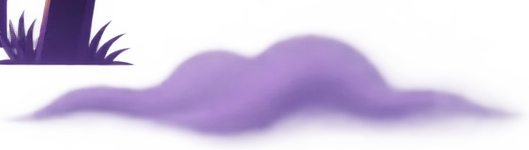
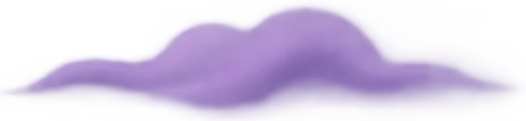
Caso tokens: más capas de niebla en movimiento y recorte de niebla limpio
Claude-Session: https://claude.ai/code/session_01LTacsSooeSDdFds6UfzpBc

Changed region(s): [[0.0, 0.0, 0.9734, 0.8678], [0.5171, 0.4215, 0.6084, 0.5702]]

diff --git a/projects/caso-tokens/index.html b/projects/caso-tokens/index.html
@@ -100,11 +100,12 @@ p{color:var(--muted)}
 .hero-ghost{position:relative;animation:levitateBig 4.4s ease-in-out infinite;filter:drop-shadow(0 0 26px rgba(196,170,255,.45))}
 .hero-ghost img{position:static!important;width:100%}
 .gshadow{position:absolute;z-index:3;width:26%;height:4%;left:64%;top:84%;border-radius:50%;background:radial-gradient(closest-side,rgba(4,2,12,.85),transparent);animation:shadowPulse 4.4s ease-in-out infinite}
-.scene .fog{z-index:4;width:70%;bottom:2%;opacity:.85;animation:fogDrift 16s ease-in-out infinite alternate}
-.scene .fog.f-b{left:-10%;bottom:9%;width:58%;opacity:.55;transform:scaleX(-1);animation-name:fogDriftB;animation-duration:21s}
-.scene .fog.f-a{right:-14%}
-@keyframes fogDrift{from{transform:translateX(0)}to{transform:translateX(-14%)}}
-@keyframes fogDriftB{from{transform:scaleX(-1) translateX(0)}to{transform:scaleX(-1) translateX(-12%)}}
+.scene .fog{z-index:4;pointer-events:none;filter:brightness(1.25) saturate(1.1);opacity:0;animation:fogMove var(--d,14s) ease-in-out infinite alternate;animation-delay:var(--delay,0s)}
+@keyframes fogMove{
+  0%{transform:translate(0,0) scaleX(var(--sx,1));opacity:calc(var(--o,.7) * .55)}
+  50%{transform:translate(calc(var(--dx,-15%) / 2),var(--dy,-5px)) scaleX(var(--sx,1));opacity:var(--o,.7)}
+  100%{transform:translate(var(--dx,-15%),0) scaleX(var(--sx,1));opacity:calc(var(--o,.7) * .7)}}
+.scene .fog.back{z-index:1}
 @keyframes levitateBig{0%,100%{transform:translateY(0) rotate(-3deg)}50%{transform:translateY(-18px) rotate(2deg)}}
 @keyframes shadowPulse{0%,100%{transform:scale(1);opacity:1}50%{transform:scale(.72);opacity:.5}}
 
@@ -330,8 +331,13 @@ p{color:var(--muted)}
         <div class="gshadow"></div>
         <img class="ground" src="assets/ground.webp" alt="" width="1000" height="566">
         <div class="ghost-pos"><div class="hero-ghost" data-ghost="hero"></div></div>
-        <img class="fog f-b" src="assets/fog.webp" alt="" width="529" height="150">
-        <img class="fog f-a" src="assets/fog.webp" alt="" width="529" height="150">
+        <img class="fog back" style="width:60%;left:8%;bottom:42%;--o:.85;--dx:18%;--d:13s" src="assets/fog.webp" alt="">
+        <img class="fog back" style="width:52%;right:-8%;bottom:36%;--o:.75;--sx:-1;--dx:-16%;--d:17s;--delay:-6s" src="assets/fog.webp" alt="">
+        <img class="fog" style="width:66%;left:-16%;bottom:10%;--o:.9;--sx:-1;--dx:22%;--d:15s;--delay:-3s" src="assets/fog.webp" alt="">
+        <img class="fog" style="width:60%;left:26%;bottom:16%;--o:.6;--dx:-18%;--d:11s;--delay:-8s;--dy:-9px" src="assets/fog.webp" alt="">
+        <img class="fog" style="width:58%;left:14%;bottom:28%;--o:.38;--dx:-14%;--d:9s;--delay:-4s;--dy:-12px" src="assets/fog.webp" alt="">
+        <img class="fog" style="width:78%;right:-20%;bottom:1%;--o:.9;--dx:-24%;--d:12s" src="assets/fog.webp" alt="">
+        <img class="fog" style="width:96%;left:-10%;bottom:-6%;--o:1;--dx:12%;--d:18s;--delay:-10s" src="assets/fog.webp" alt="">
       </div>
     </div>
   </section>
